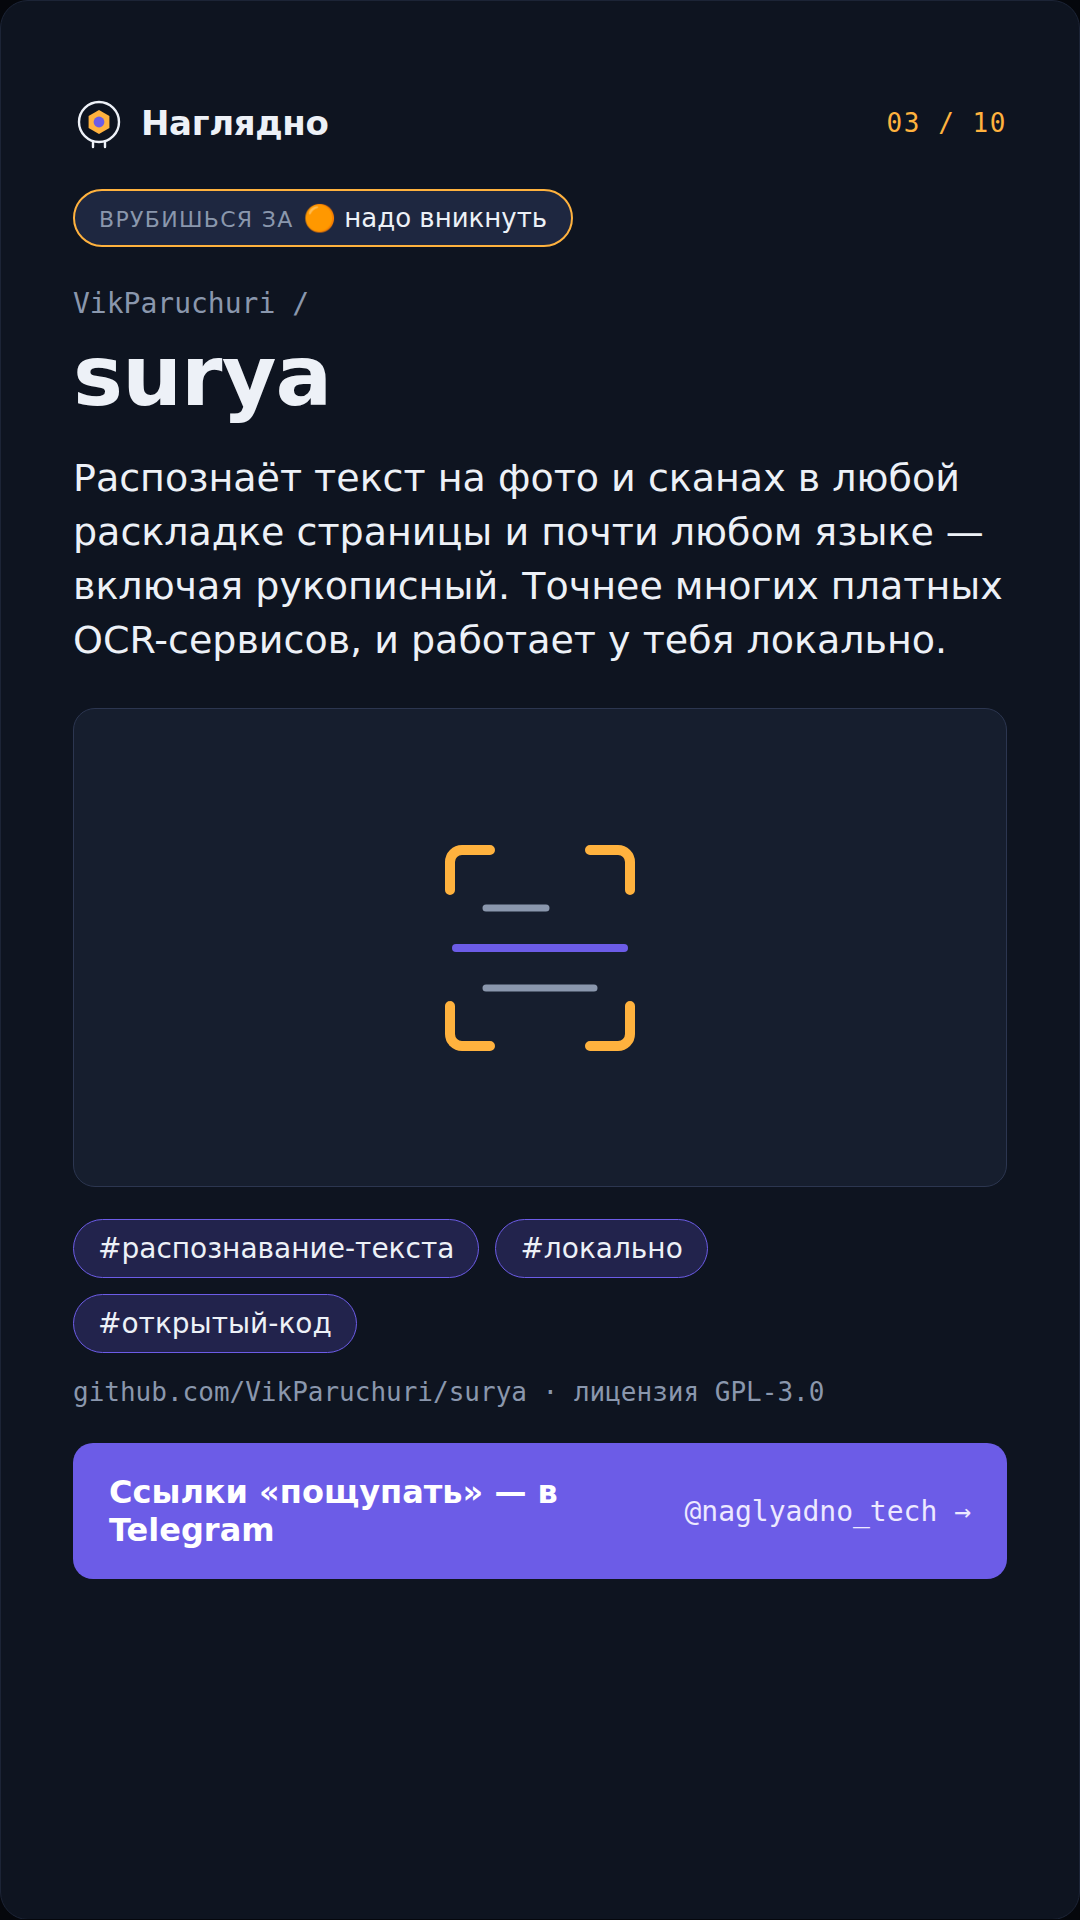
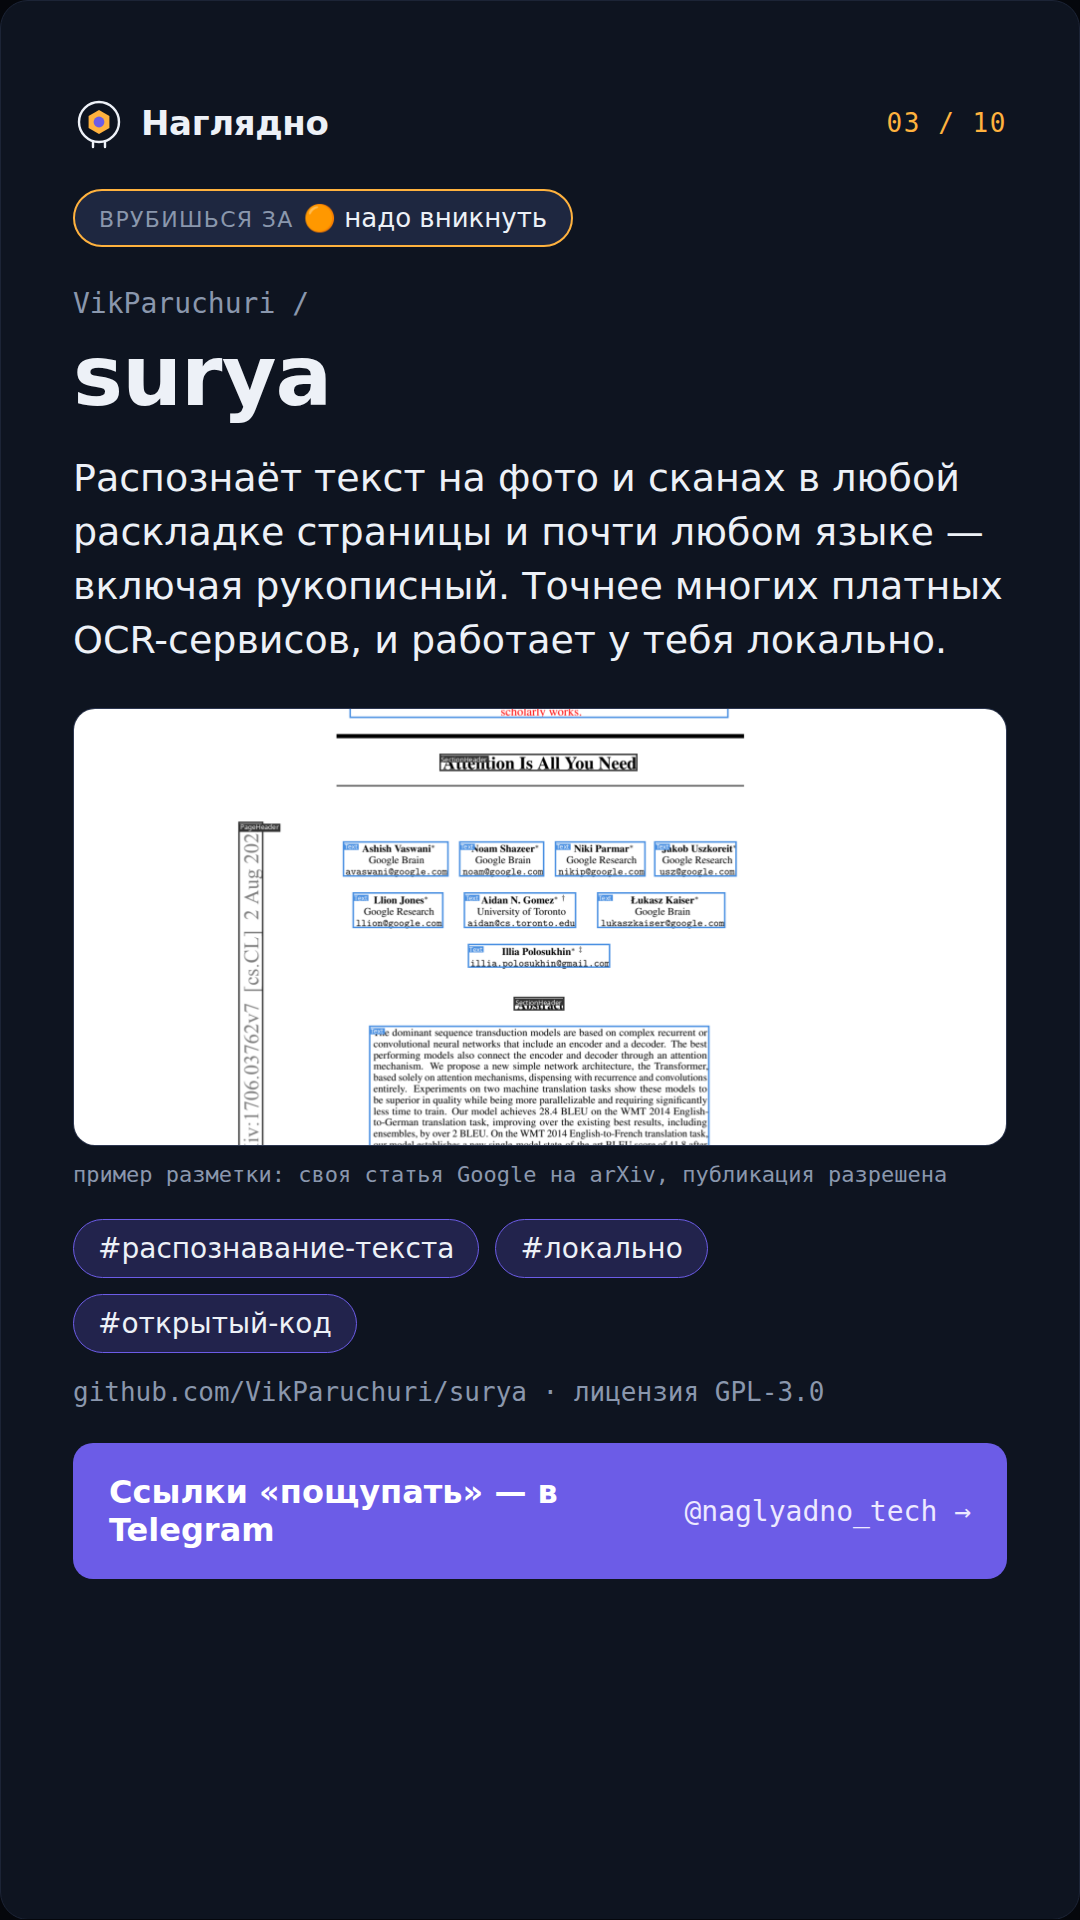
Заменить иконки на реальные скриншоты, где они есть
Surya, Khoj, OpenHands получили настоящие изображения вместо
нарисованных иконок. У Surya скриншот — это разметка поверх статьи
Google с arXiv (публикация таблиц/рисунков разрешена явно в самой
статье), не интерфейс проекта — подпись под карточкой это поясняет
через новое поле credit.

По пути отклонён demo-файл Surya corporate_text.png: это оказался
настоящий внутренний документ Nestlé с пометкой «do not share
without written approval» — использовать нельзя, несмотря на то,
что он лежит в публичном репозитории.

Reor, Bark и Piper остаются с иконками осознанно: у Reor нет
скриншота в репозитории, а сайт reorproject.org заблокирован
политикой прокси этой сессии; Bark и Piper — библиотеки без
интерфейса, скриншотить нечего.

Claude-Session: https://claude.ai/code/session_01DzVTpoES8dbpXif4hazhAx

Changed region(s): [[0.0611, 0.3438, 0.9472, 0.625]]

diff --git a/cards/local-ai.html b/cards/local-ai.html
@@ -132,7 +132,8 @@ const CARDS = [
     owner: 'VikParuchuri', repo: 'surya',
     clarity: ['🟠', 'надо вникнуть'],
     desc: 'Распознаёт текст на фото и сканах в любой раскладке страницы и почти любом языке — включая рукописный. Точнее многих платных OCR-сервисов, и работает у тебя локально.',
-    icon: 'scan',
+    shot: 'shots-ai/surya.png', light: true,
+    credit: 'пример разметки: своя статья Google на arXiv, публикация разрешена',
     tags: ['#распознавание-текста', '#локально', '#открытый-код'],
     repoline: 'github.com/VikParuchuri/surya · лицензия GPL-3.0',
   },
@@ -164,7 +165,7 @@ const CARDS = [
     owner: 'khoj-ai', repo: 'khoj',
     clarity: ['🟡', '15 сек'],
     desc: 'Свой ИИ-помощник, который читает твои заметки, PDF и почту и отвечает по ним — как личный секретарь, который помнит всё, что ты когда-либо записал.',
-    icon: 'brain',
+    shot: 'shots-ai/khoj.png',
     tags: ['#ии-помощник', '#локально', '#открытый-код'],
     repoline: 'github.com/khoj-ai/khoj · лицензия AGPL-3.0',
   },
@@ -172,7 +173,7 @@ const CARDS = [
     owner: 'All-Hands-AI', repo: 'OpenHands',
     clarity: ['🟠', 'надо вникнуть'],
     desc: 'Пульт для <i>ИИ-агентов (программ, которые сами выполняют задачи)</i>: ставишь задачу, агент сам правит код и запускает проверки. Поднимается на своём сервере.',
-    icon: 'agent',
+    shot: 'shots-ai/openhands.png',
     tags: ['#агенты', '#свой-сервер', '#открытый-код'],
     repoline: 'github.com/All-Hands-AI/OpenHands · лицензия MIT',
   },
@@ -335,7 +336,7 @@ document.body.insertAdjacentHTML('beforeend', CARDS.map((c, i) => {
   const visual = c.shot
     ? `<figure class="visual">
          <div class="shot${c.light ? ' light' : ''}"><img src="${c.shot}" alt=""></div>
-         <figcaption class="credit">скриншот из репозитория проекта</figcaption>
+         <figcaption class="credit">${c.credit || 'скриншот из репозитория проекта'}</figcaption>
        </figure>`
     : `<div class="visual"><div class="iconbox">${ICONS[c.icon]}</div></div>`;
   return `<div class="card">
